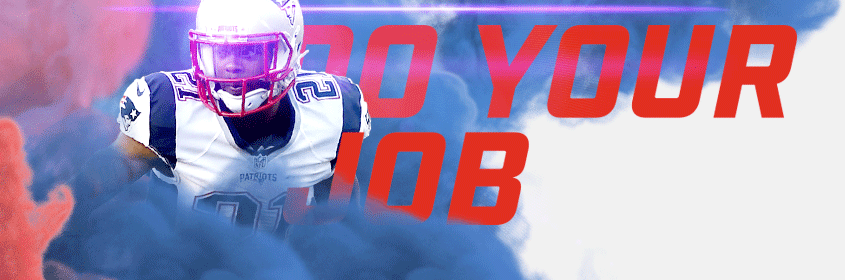
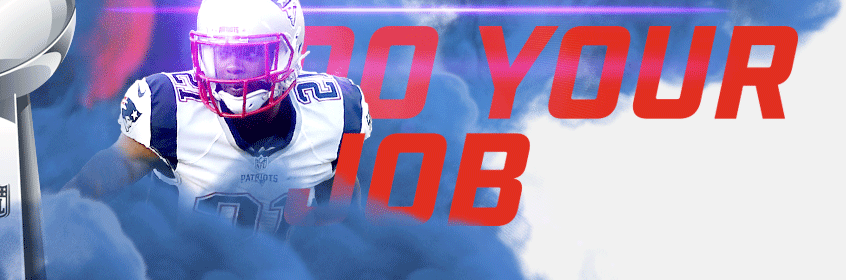
Patriots won the super bowl :(

diff --git a/src/scss/modules/_variables.scss b/src/scss/modules/_variables.scss
@@ -22,7 +22,7 @@ $media-stack:
 // NFL Teams
 $nfl-teams: (name:nfl, abbr:NFL, url:nfl, fg:$nfl-0, bg:$nfl-blue, eliminated: false),
 						(name:cardinals, abbr:ARI, url:azcardinals, fg:#FFFFFF, bg:#97233F, eliminated: true),
-						(name:falcons, abbr:ATL, url:falcons, fg:#A71930, bg:#000000, eliminated: false),
+						(name:falcons, abbr:ATL, url:falcons, fg:#A71930, bg:#000000, eliminated: true),
 						(name:ravens, abbr:BAL, url:ravens, fg:#9E7C0C, bg:#241773, eliminated: true),
 						(name:bills, abbr:BUF, url:buffalobills, fg:#C60C30, bg:#00338D, eliminated: true),
 						(name:panthers, abbr:CAR, url:panthers, fg:#000000, bg:#0085CA, eliminated: true),
@@ -30,7 +30,7 @@ $nfl-teams: (name:nfl, abbr:NFL, url:nfl, fg:$nfl-0, bg:$nfl-blue, eliminated: f
 						(name:bengals, abbr:CIN, url:bengals, fg:#FB4F14, bg:#000000, eliminated: true),
 						(name:browns, abbr:CLE, url:browns, fg:#311D00, bg:#FF3C00, eliminated: true),
 						(name:cowboys, abbr:DAL, url:cowboys, fg:#B0B7BC, bg:#002244, eliminated: true),
-						(name:broncos, abbr:DEN, url:denverbroncos, fg:#002244, bg:#FB4F14, eliminated: true, champion: false),
+						(name:broncos, abbr:DEN, url:denverbroncos, fg:#002244, bg:#FB4F14, eliminated: true),
 						(name:lions, abbr:DET, url:detroitlions, fg:#B0B7BC, bg:#005A8B, eliminated: true),
 						(name:packers, abbr:GB, url:greenbaypackers, fg:#FFB612, bg:#203731, eliminated: true),
 						(name:texans, abbr:HOU, url:texans, fg:#A71930, bg:#03202F, eliminated: true),
@@ -39,7 +39,7 @@ $nfl-teams: (name:nfl, abbr:NFL, url:nfl, fg:$nfl-0, bg:$nfl-blue, eliminated: f
 						(name:chiefs, abbr:KC, url:kansascitychiefs, fg:#FFB612, bg:#E31837, eliminated: true),
 						(name:dolphins, abbr:MIA, url:miamidolphins, fg:#F58220, bg:#008E97, eliminated: true),
 						(name:vikings, abbr:MIN, url:minnesotavikings, fg:#FFC62F, bg:#4F2683, eliminated: true),
-						(name:patriots, abbr:NE, url:patriots, fg:#C60C30, bg:#002244, eliminated: false),
+						(name:patriots, abbr:NE, url:patriots, fg:#C60C30, bg:#002244, eliminated: false, champion: false),
 						(name:saints, abbr:NO, url:saints, fg:#9F8958, bg:#000000, eliminated: true),
 						(name:giants, abbr:NYG, url:nygiants, fg:#A71930, bg:#0B2265, eliminated: true),
 						(name:jets, abbr:NYJ, url:nyjets, fg:#FFFFFF, bg:#203731, eliminated: true),

diff --git a/src/scss/themes/_superbowl-theme.scss b/src/scss/themes/_superbowl-theme.scss
@@ -21,37 +21,30 @@ form.logout {
 	a::before{
 		@extend %image-half;
 		left: 0;
+		background-image: url("../img/TOP-trophy.png");
 		background-position: top right;
 	}
 	a::after{
 		@extend %image-half;
 		right: 0;
 		background-position: top left;
-		background-image: url("../img/TOP-butler.png");
 	}
 	@each $i in $group1{
-		input[name="uh"][value^="#{$i}"] ~ a::before{
-			background-image: url("../img/TOP-ryan.png");
-		}
-	}
-	@each $i in $group2{
-		input[name="uh"][value^="#{$i}"] ~ a::before{
-			background-image: url("../img/TOP-freeman.png");
-		}
-	}
-	@each $i in $group3{
-		input[name="uh"][value^="#{$i}"] ~ a::before{
-			background-image: url("../img/TOP-jones.png");
-		}
-	}
-	@each $i in $afterGroup1{
 		input[name="uh"][value$="#{$i}"]~ a::after{
 			background-image: url("../img/TOP-brady.png");
 		}
 	}
-	@each $i in $afterGroup2{
+	@each $i in $group2{
 		input[name="uh"][value$="#{$i}"]~ a::after{
 			background-image: url("../img/TOP-edleman.png");
+		}
+	}
+	@each $i in $group3{
+		input[name="uh"][value$="#{$i}"]~ a::after{
+			background-image: url("../img/TOP-edleman.png");
+		}
+		input[name="uh"][value^="#{$i}"] ~ a::before{
+			background-image: url("../img/TOP-butler.png");
 		}
 	}
 }
